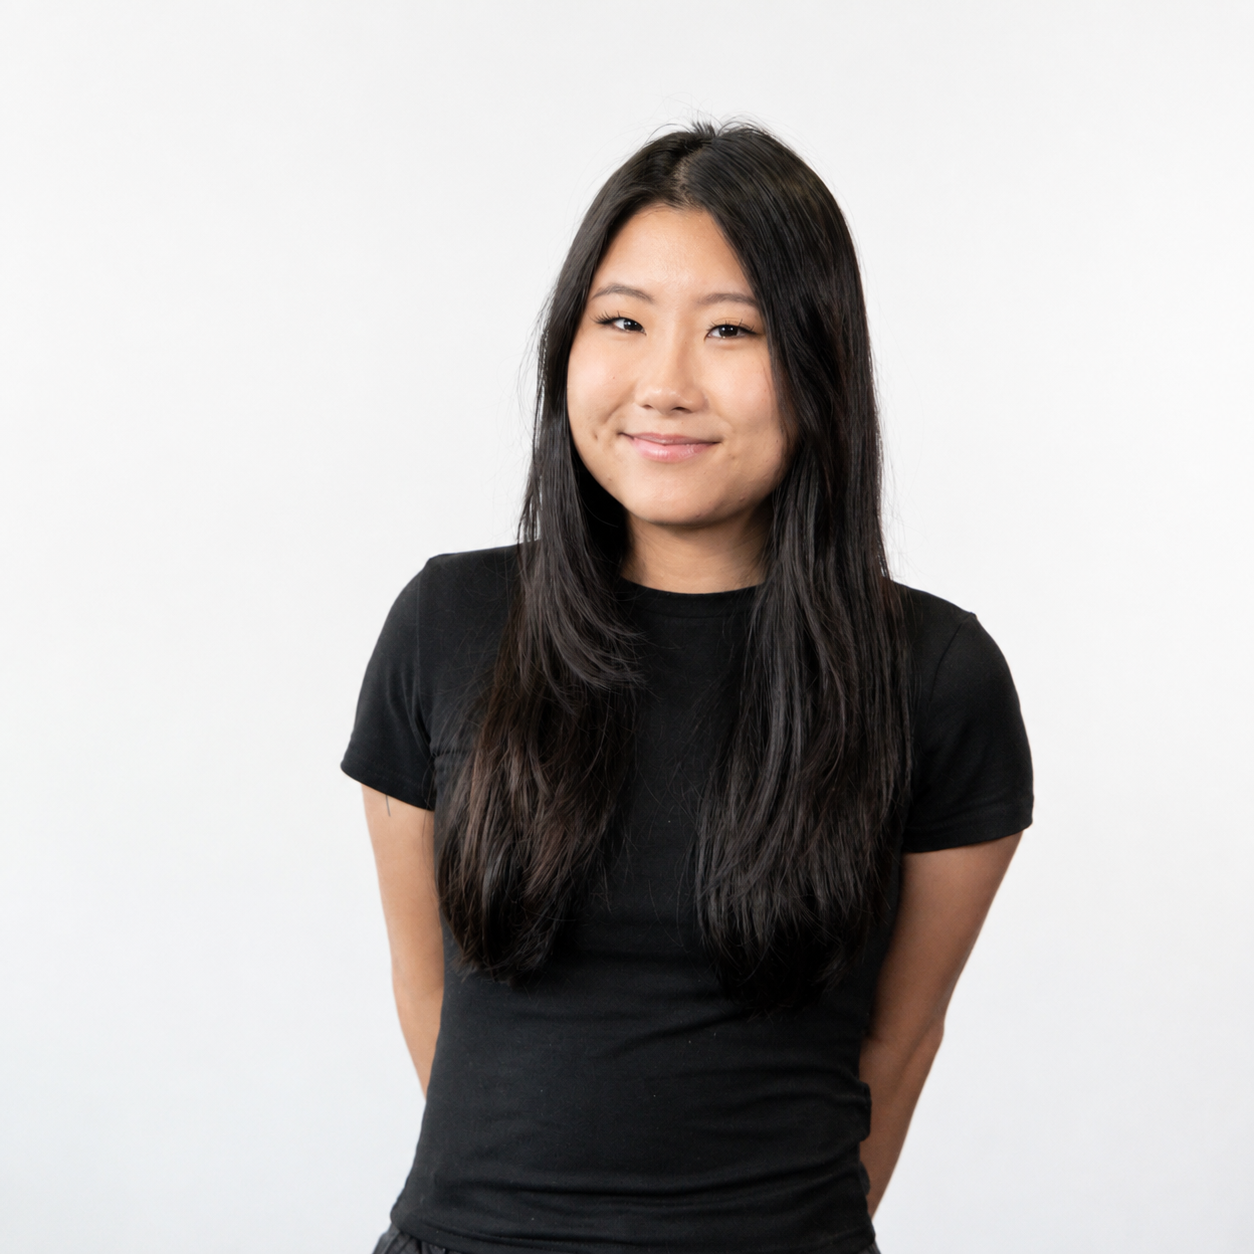
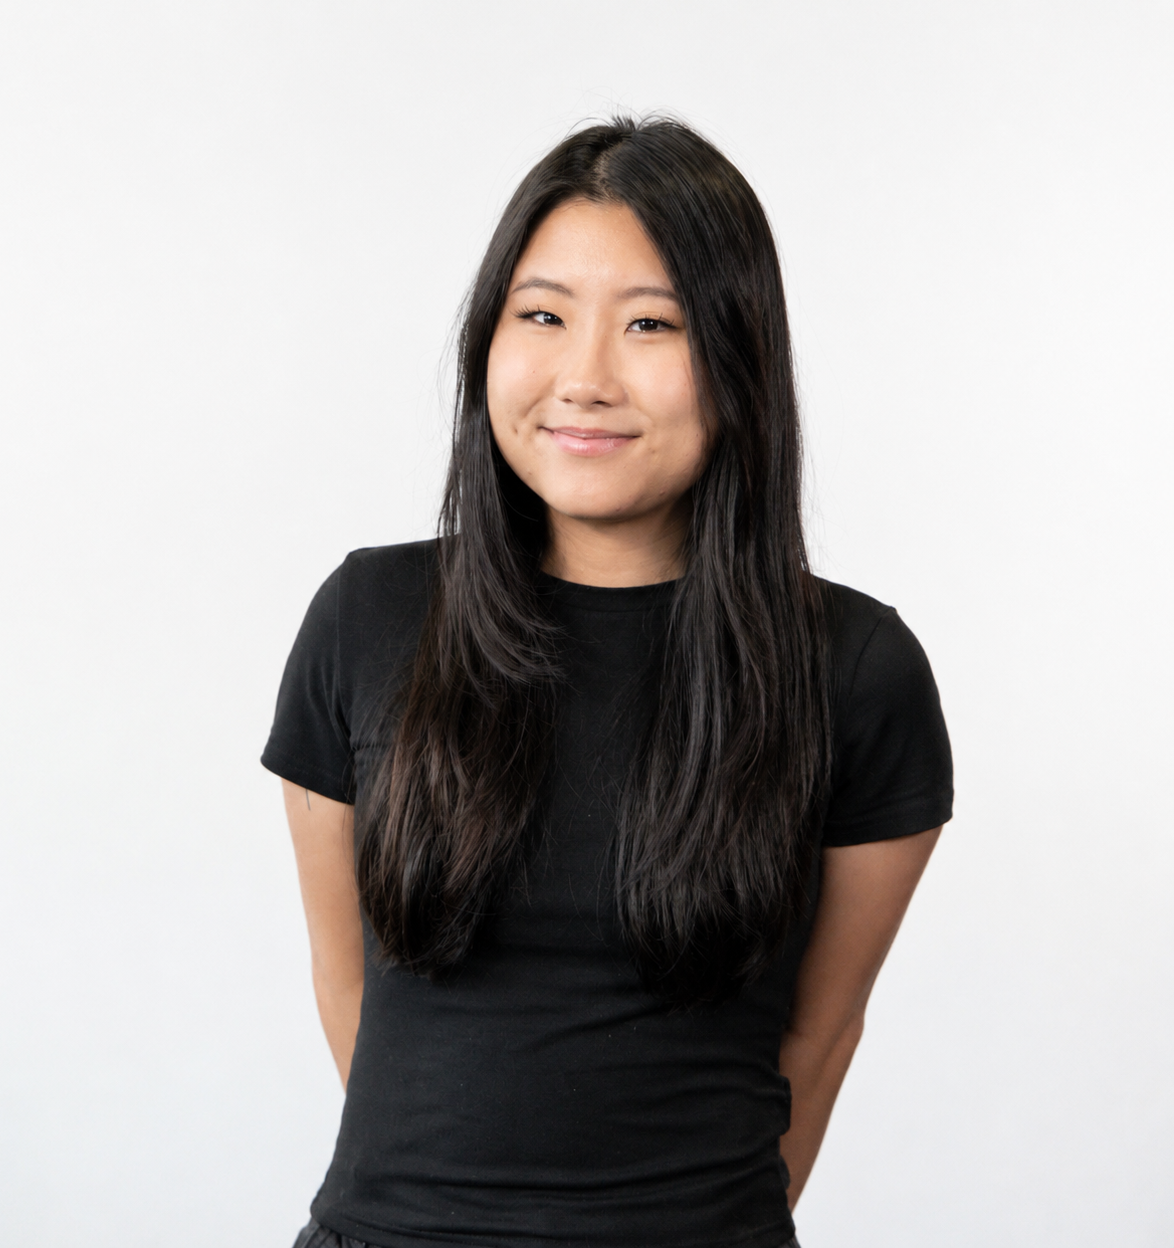
better formatting and size

Changed region(s): [[0.2147, 0.0938, 0.8279, 1.0]]

diff --git a/src/components/Hero/Hero.tsx b/src/components/Hero/Hero.tsx
@@ -3,25 +3,19 @@ import { headShot, blue, brown, green, pink } from "../../assets";
 
 export default function Hero() {
   const navItems = [
-    { label: 'About', href: '#about', icon: blue, color: 'hover:text-amber-500 hover:border-amber-500/50' },
-    { label: 'Work', href: '#experience', icon: brown, color: 'hover:text-blue-500 hover:border-blue-500/50' },
-    { label: 'Projects', href: '#projects', icon: green, color: 'hover:text-emerald-500 hover:border-emerald-500/50' },
-    { label: 'Contact', href: '#contact', icon: pink, color: 'hover:text-purple-500 hover:border-purple-500/50' },
+    { label: 'About', href: '#about', icon: blue },
+    { label: 'Work', href: '#work', icon: brown },
+    { label: 'Projects', href: '#projects', icon: green },
+    { label: 'Contact', href: '#contact', icon: pink },
   ];
 
   return (
     <section className="relative flex min-h-[85vh] flex-col items-center justify-center overflow-hidden py-12 px-4">
-      {/* Background Decorative Rings
-      <div className="absolute inset-0 flex items-center justify-center pointer-events-none opacity-20">
-        <div className="h-[320px] w-[320px] rounded-full border border-dashed border-neutral-400 sm:h-[450px] sm:w-[450px]" />
-      </div> */}
-
       <div className="relative z-10 flex flex-col items-center gap-8">
-        {/* Main Center Container */}
         <div className="relative flex items-center justify-center">
 
           {/* CENTER: Headshot Image */}
-          <div className="group relative h-44 w-44 overflow-hidden rounded-full border-4 border-neutral-900 bg-neutral-100 shadow-xl transition-transform duration-700 hover:scale-105 sm:h-56 sm:w-56">
+          <div className="group relative h-56 w-56 overflow-hidden rounded-full border-4 border-neutral-300 bg-neutral-100 shadow-xl transition-transform duration-300 hover:scale-105 sm:h-72 sm:w-72">
             <img
               src={headShot}
               alt="Catherine Chu"
@@ -32,54 +26,62 @@ export default function Hero() {
           {/* Top Left: About */}
           <a
             href="#about"
-            className="font-zodiak absolute -top-4 -left-12 sm:-top-6 sm:-left-20 flex flex-col items-center gap-1 group"
+           className="font-zodiak absolute -top-16 -left-40 sm:-top-24 sm:-left-56 flex flex-col items-center gap-1 group"
           >
-            <div className={`shadow-md transition-all duration-700 group-hover:-translate-y-1 group-hover:shadow-lg ${navItems[0].color}`}>
-              <img src={navItems[0].icon} alt="" className="h-9 w-9 sm:h-10 sm:w-10 object-contain" />
-            </div>
-            <span className="text-xs font-semibold text-neutral-600 group-hover:text-neutral-900">About</span>
+            <img
+                src={blue}
+                alt=""
+                className="h-20 w-20 sm:h-24 sm:w-24 object-contain transition-transform duration-700 ease-out group-hover:-translate-y-3 group-hover:scale-110"
+            />
+            <span className="text-sm font-semibold text-neutral-600 group-hover:text-neutral-900">About</span>
           </a>
 
           {/* Top Right: Work */}
           <a
-            href="#experience"
-            className="font-zodiak absolute -top-4 -right-12 sm:-top-6 sm:-right-20 flex flex-col items-center gap-1 group"
+            href="#work"
+            className="font-zodiak absolute -top-16 -right-40 sm:-top-24 sm:-right-56 flex flex-col items-center gap-1 group"
           >
-            <div className={`shadow-md transition-all duration-700 group-hover:-translate-y-1 group-hover:shadow-lg ${navItems[1].color}`}>
-              <img src={navItems[1].icon} alt="" className="h-9 w-9 sm:h-10 sm:w-10 object-contain" />
-            </div>
-            <span className="text-xs font-semibold text-neutral-600 group-hover:text-neutral-900">Work</span>
+            <img
+                src={brown}
+                alt=""
+                className="h-20 w-20 sm:h-24 sm:w-24 object-contain transition-transform duration-700 ease-out group-hover:-translate-y-3 group-hover:scale-110"
+            />
+            <span className="text-sm font-semibold text-neutral-600 group-hover:text-neutral-900">Work</span>
           </a>
 
           {/* Bottom Left: Projects */}
           <a
             href="#projects"
-            className="font-zodiak absolute -bottom-4 -left-12 sm:-bottom-6 sm:-left-20 flex flex-col items-center gap-1 group"
+            className="font-zodiak absolute -bottom-16 -left-40 sm:-bottom-24 sm:-left-56 flex flex-col items-center gap-1 group"
           >
-            <div className={`shadow-md transition-all duration-700 group-hover:-translate-y-1 group-hover:shadow-lg ${navItems[2].color}`}>
-              <img src={navItems[2].icon} alt="" className="h-9 w-9 sm:h-10 sm:w-10 object-contain" />
-            </div>
-            <span className="text-xs font-semibold text-neutral-600 group-hover:text-neutral-900">Projects</span>
-          </a>
+            <img
+                src={green}
+                alt=""
+                className="h-20 w-20 sm:h-24 sm:w-24 object-contain transition-transform duration-700 ease-out group-hover:-translate-y-3 group-hover:scale-110"
+            />
+            <span className="text-sm font-semibold text-neutral-600 group-hover:text-neutral-900">Projects</span>
+          </a> 
 
           {/* Bottom Right: Contact */}
           <a
             href="#contact"
-            className="font-zodiak absolute -bottom-4 -right-12 sm:-bottom-6 sm:-right-20 flex flex-col items-center gap-1 group"
+            className="font-zodiak absolute -bottom-16 -right-40 sm:-bottom-24 sm:-right-56 flex flex-col items-center gap-1 group"
           >
-            <div className={`shadow-md transition-all duration-700 group-hover:-translate-y-1 group-hover:shadow-lg ${navItems[3].color}`}>
-              <img src={navItems[3].icon} alt="" className="h-9 w-9 sm:h-10 sm:w-10 object-contain" />
-            </div>
-            <span className="text-xs font-semibold text-neutral-600 group-hover:text-neutral-900">Contact</span>
+            <img
+                src={pink}
+                alt=""
+                className="h-20 w-20 sm:h-24 sm:w-24 object-contain transition-transform duration-700 ease-out group-hover:-translate-y-3 group-hover:scale-110"
+            />
+            <span className="text-sm font-semibold text-neutral-600 group-hover:text-neutral-900">Contact</span>
           </a>
         </div>
 
         {/* Hero Title / Intro */}
         <div className="mt-6 text-center">
-          <h1 className="font-comico text-3xl tracking-tight text-neutral-900 sm:text-4xl">
+          <h1 className="font-comico text-4xl tracking-tight text-neutral-900 sm:text-5xl">
             Catherine Chu
-        </h1>
-          <p className="font-zodiak font-bold mt-2 text-base text-neutral-600"> 
+          </h1>
+          <p className="font-zodiak font-bold mt-2 text-lg text-neutral-600">
             Software Engineer
           </p>
         </div>

diff --git a/src/components/Folder/Folder.tsx b/src/components/Folder/Folder.tsx
@@ -12,7 +12,9 @@ function Folder({
     children: ReactNode;
 }) {
     return (
-        <div id={id} className="relative mx-auto max-w-5xl first:mt-0 px-6 text-left">
+        <div id={id}  
+        className="relative mx-auto max-w-7xl first:mt-0 px-8 text-left scroll-mt-[60px]"
+        style={{ scrollMarginTop: "120px" }} >
             <span
                 className="font-comico absolute -top-[42px] z-10 w-56 text-center rounded-t-xl border border-b-0 border-neutral-200 bg-white px-6 py-3 text-base text-neutral-600"
                 style={{ left: `${24 + tabOffset}px`}}

diff --git a/src/components/Nav/Nav.tsx b/src/components/Nav/Nav.tsx
@@ -9,7 +9,7 @@ function Nav() {
     return (
         <header className="sticky top-0 z-50 w-full border-b border-neutral-800">
             <nav className="mx-auto flex max-w-5xl items-center justify-between px-6 py-4">
-                <a href="#top" className="font-comico text-sm font-medium">
+                <a href="#top" className="font-comico text-2xl font-medium">
                     Catherine Chu
                 </a>
                 <ul className="flex items-center gap-6">

diff --git a/src/index.css b/src/index.css
@@ -48,7 +48,7 @@
 }
 
 #root {
-  width: 1126px;
+  width: 100%;
   max-width: 100%;
   margin: 0 auto;
   text-align: center;
